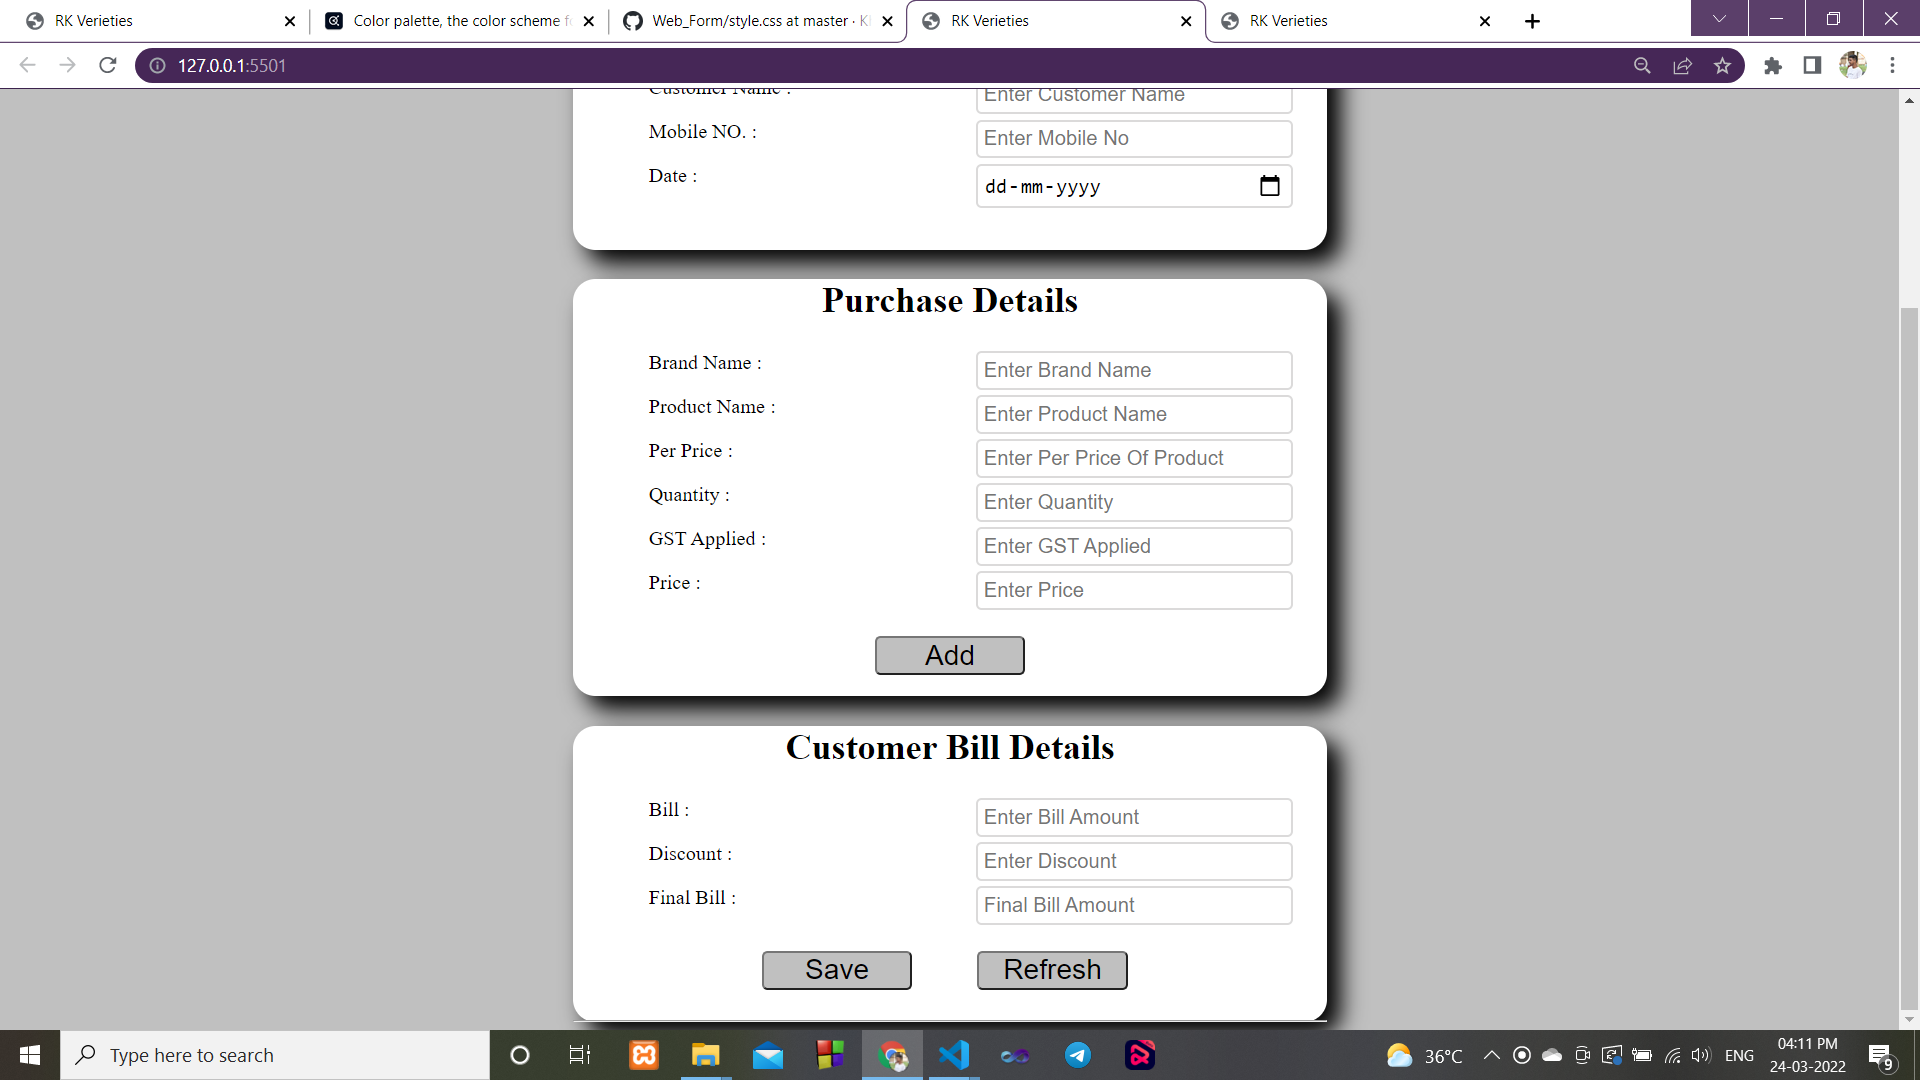
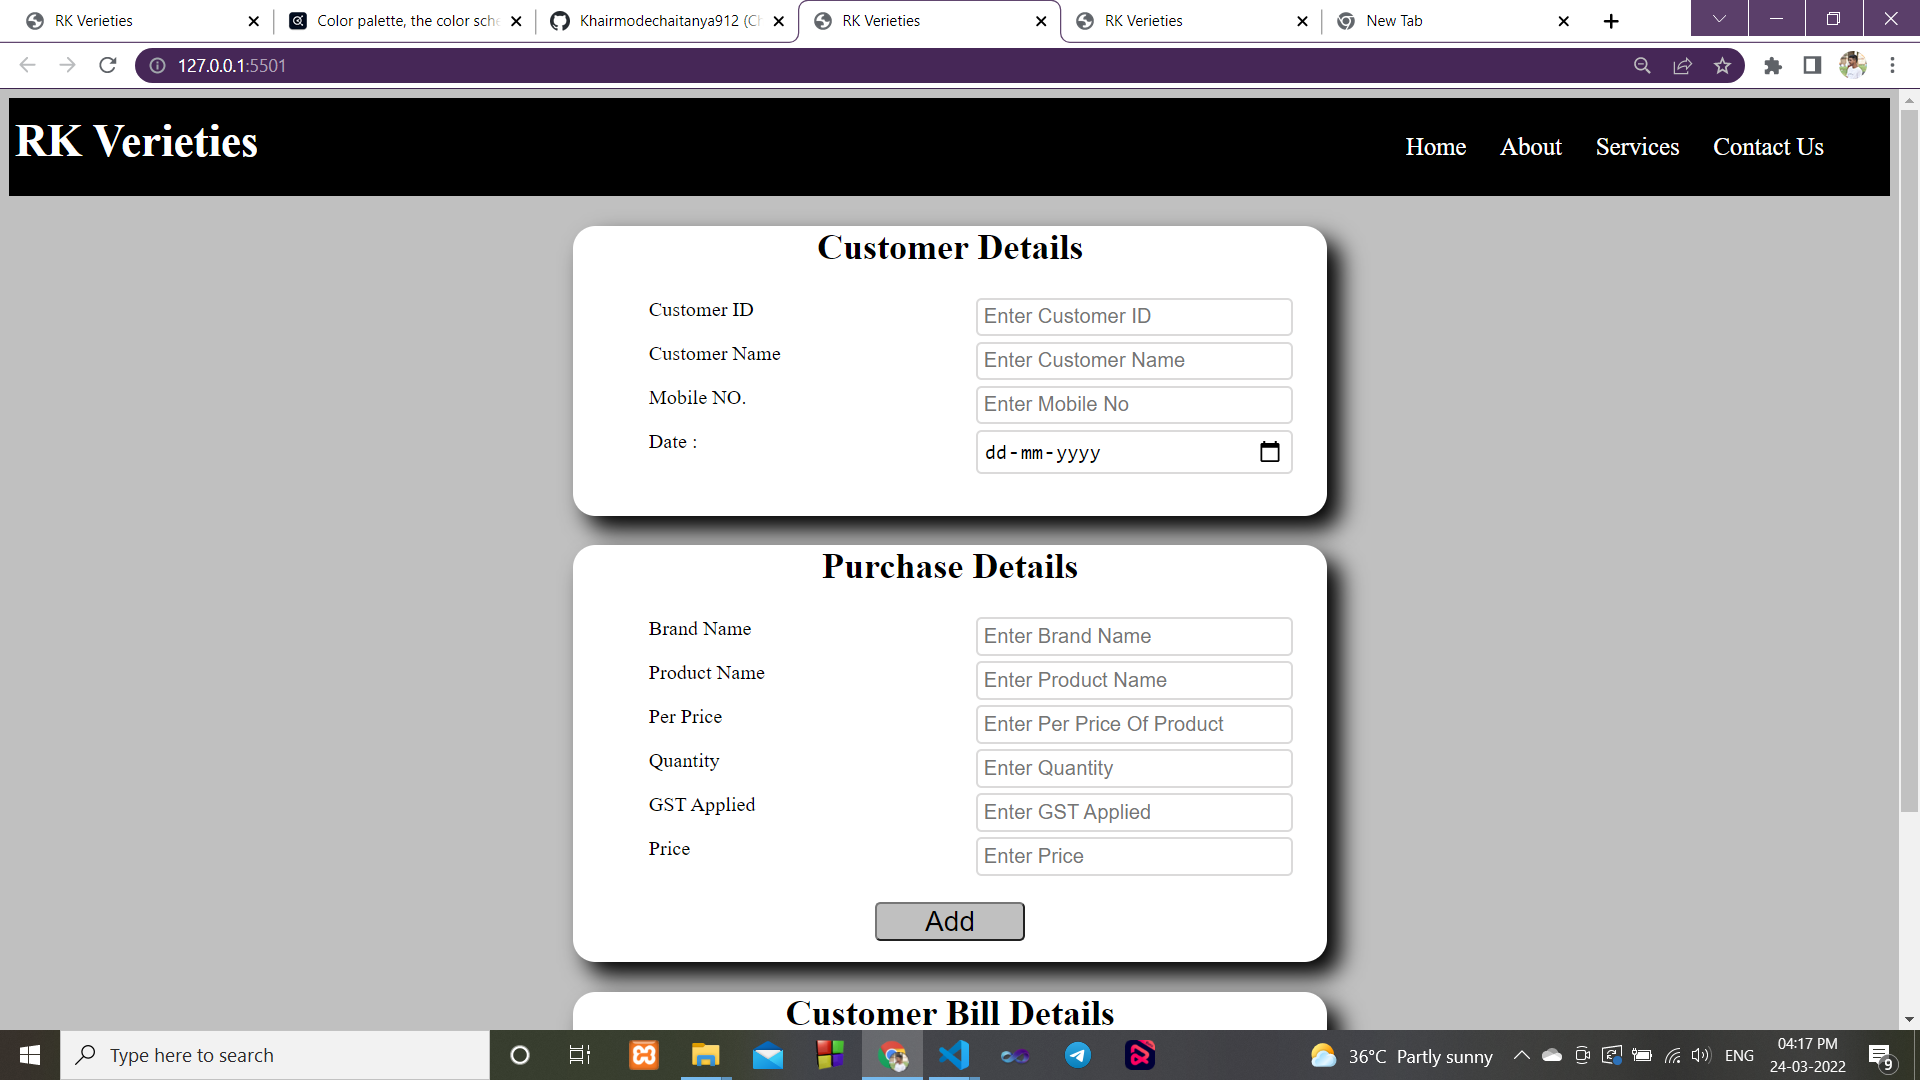
Customer Details Web Form Update

diff --git a/Customer Details/index.html b/Customer Details/index.html
@@ -34,13 +34,13 @@
                             <h1>Customer Details</h1>
                         </div>
 
-                        <label for="cid" class="lbl">Customer ID : </label>
+                        <label for="cid" class="lbl">Customer ID </label>
                         <input type="text" class="input" placeholder="Enter Customer ID">
                         <br><br>
-                        <label for="cname" class="lbl">Customer Name : </label>
+                        <label for="cname" class="lbl">Customer Name </label>
                         <input type="text" class="input" placeholder="Enter Customer Name">
                         <br><br>
-                        <label for="cmob" class="lbl">Mobile NO. : </label>
+                        <label for="cmob" class="lbl">Mobile NO. </label>
                         <input type="text" class="input" placeholder="Enter Mobile No">
                         <br><br>
                         <label for="cdate" class="lbl">Date : </label>
@@ -57,22 +57,22 @@
                         </div>
 
                         <div>
-                            <label for="bname" class="lbl">Brand Name : </label>
+                            <label for="bname" class="lbl">Brand Name  </label>
                             <input type="text" class="input" placeholder="Enter Brand Name">
                             <br><br>
-                            <label for="pname" class="lbl">Product Name : </label>
+                            <label for="pname" class="lbl">Product Name  </label>
                             <input type="text" class="input" placeholder="Enter Product Name">
                             <br><br>
-                            <label for="pprice" class="lbl">Per Price : </label>
+                            <label for="pprice" class="lbl">Per Price  </label>
                             <input type="text" class="input" placeholder="Enter Per Price Of Product">
                             <br><br>
-                            <label for="qty" class="lbl">Quantity : </label>
+                            <label for="qty" class="lbl">Quantity  </label>
                             <input type="text" class="input" placeholder="Enter Quantity">
                             <br><br>
-                            <label for="gst" class="lbl">GST Applied : </label>
+                            <label for="gst" class="lbl">GST Applied  </label>
                             <input type="text" class="input" placeholder="Enter GST Applied">
                             <br><br>
-                            <label for="pri" class="lbl">Price : </label>
+                            <label for="pri" class="lbl">Price  </label>
                             <input type="text" class="input" placeholder="Enter Price">
                             <br><br><br>
                             <input type="button" value="Add" class="btn">
@@ -88,13 +88,13 @@
                                     <h1>Customer Bill Details</h1>
                                 </div>
                                 <div>
-                                    <label for="bill" class="lbl">Bill : </label>
+                                    <label for="bill" class="lbl">Bill  </label>
                                     <input type="text" class="input" placeholder="Enter Bill Amount">
                                     <br><br>
-                                    <label for="dis" class="lbl">Discount : </label>
+                                    <label for="dis" class="lbl">Discount  </label>
                                     <input type="text" class="input" placeholder="Enter Discount ">
                                     <br><br>
-                                    <label for="fbill" class="lbl">Final Bill : </label>
+                                    <label for="fbill" class="lbl">Final Bill  </label>
                                     <input type="text" class="input" placeholder="Final Bill Amount">
                                     <br><br><br>
                                     <input type="button" value="Save" class="btn-l">
